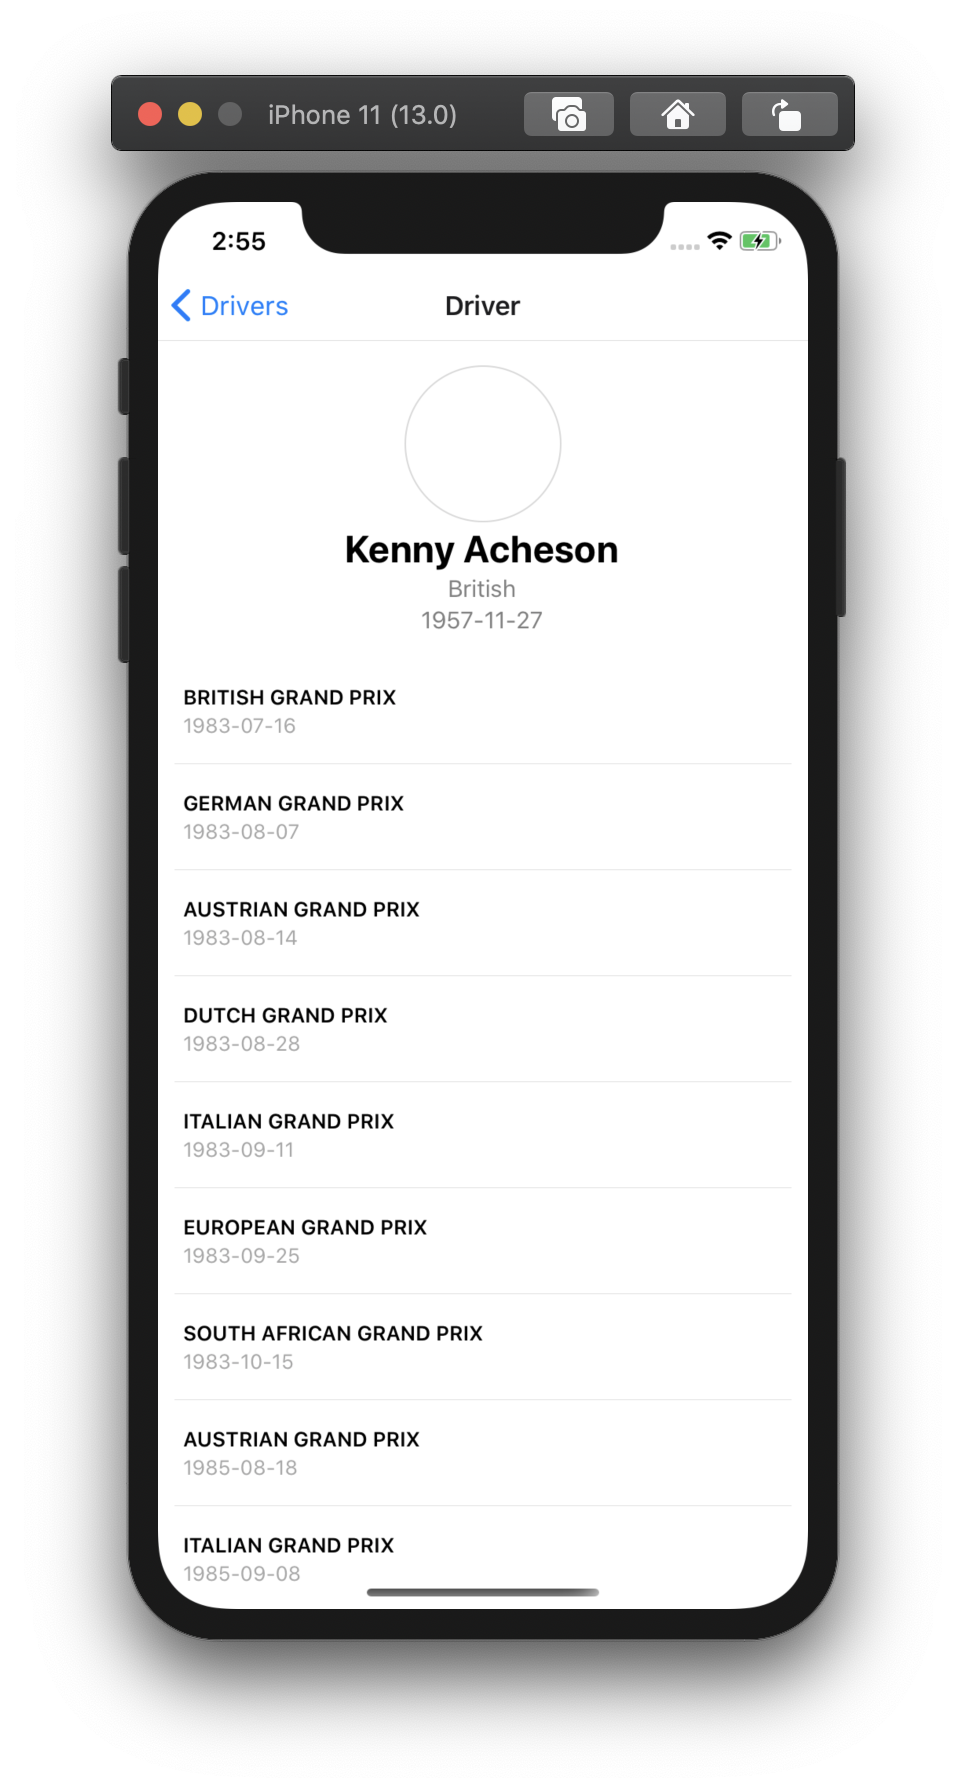
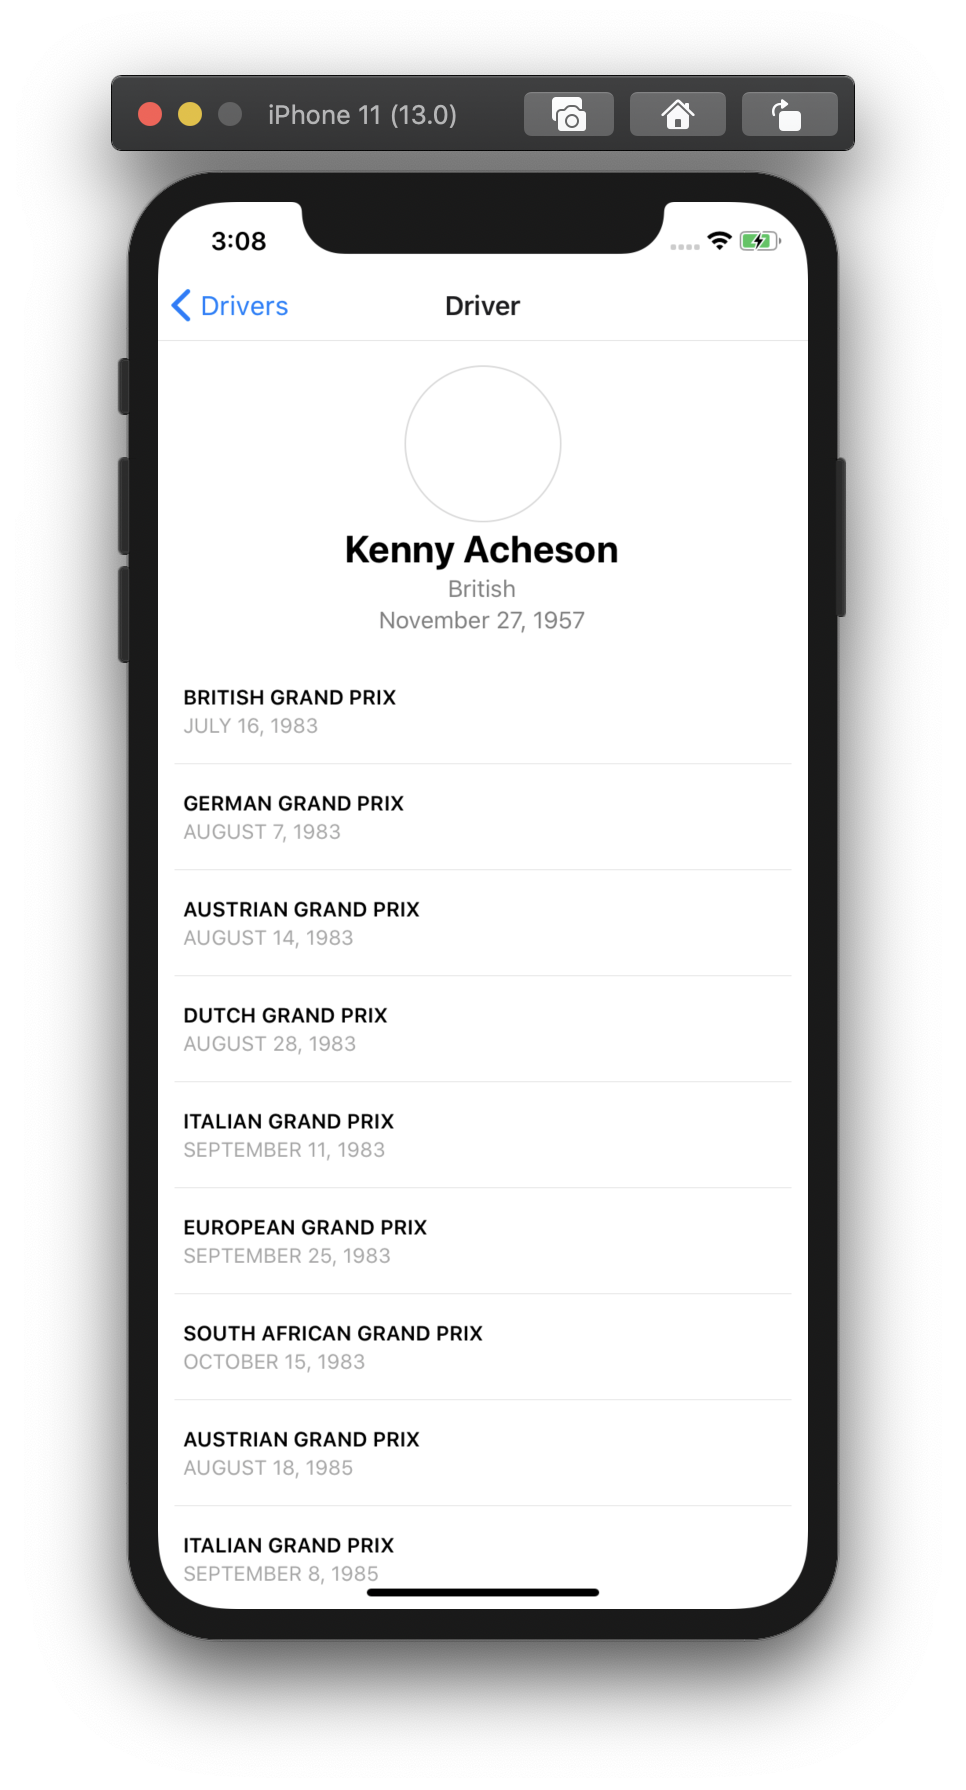
☝ Minor changes
Format dates

diff --git a/src/components/containers/Results/elements/CircuitInfo.tsx b/src/components/containers/Results/elements/CircuitInfo.tsx
@@ -1,5 +1,8 @@
 import React from 'react';
 import { Text, View, StyleSheet, TouchableOpacity } from 'react-native';
+
+import moment from 'moment';
+
 import { openURL } from '../../../utils/linking';
 
 const styles = StyleSheet.create({
@@ -33,9 +36,18 @@ type CircuitInfoProps = {
   raceUrl: string;
   location: string;
   country: string;
+  date: string;
 };
 
-const CircuitInfo: React.FC<CircuitInfoProps> = ({ location, raceName, country, raceUrl, circuitName, circuitUrl }) => {
+const CircuitInfo: React.FC<CircuitInfoProps> = ({
+  location,
+  raceName,
+  country,
+  raceUrl,
+  circuitName,
+  circuitUrl,
+  date,
+}) => {
   const onRaceLinkPress = React.useCallback(() => {
     openURL(raceUrl);
   }, [raceUrl]);
@@ -55,6 +67,7 @@ const CircuitInfo: React.FC<CircuitInfoProps> = ({ location, raceName, country, 
       </TouchableOpacity>
 
       <View>
+        <Text style={styles.subtitle}>{moment(date).format('LL')}</Text>
         <Text style={styles.subtitle}>{location}</Text>
         <Text style={styles.subtitle}>{country}</Text>
       </View>

diff --git a/src/components/containers/Driver/elements/RaceInfoItem.tsx b/src/components/containers/Driver/elements/RaceInfoItem.tsx
@@ -1,5 +1,7 @@
 import React from 'react';
 import { View, StyleSheet, TouchableOpacity, Text } from 'react-native';
+import moment from 'moment';
+
 import { Race } from '../../../../store/models/races';
 
 const styles = StyleSheet.create({
@@ -37,7 +39,7 @@ const RaceInfoItem: React.FC<RaceInfoItemProps> = ({ race, onPress }) => {
     <TouchableOpacity onPress={onPressHandle}>
       <View style={styles.container}>
         <Text style={styles.title}>{race.raceName}</Text>
-        <Text style={styles.date}>{race.date}</Text>
+        <Text style={styles.date}>{moment(race.date).format('LL')}</Text>
       </View>
     </TouchableOpacity>
   );

diff --git a/src/components/containers/Drivers/elements/DriverListItem.tsx b/src/components/containers/Drivers/elements/DriverListItem.tsx
@@ -1,6 +1,7 @@
 import React from 'react';
 import { Driver, getDriverName } from '../../../../store/models/drivers';
 import DetailedListItem from '../../../shared/DetailedListItem';
+import moment from 'moment';
 
 type DriverListItemProps = {
   driver: Driver;
@@ -16,7 +17,7 @@ const DriverListItem: React.FC<DriverListItemProps> = ({ driver, onPress }) => {
     <DetailedListItem
       title={getDriverName(driver)}
       subtitle={driver.nationality}
-      description={driver.dateOfBirth}
+      description={moment(driver.dateOfBirth).format('LL')}
       onPress={onPressHandle}
     />
   );

diff --git a/src/components/containers/Driver/elements/DriverInfo.tsx b/src/components/containers/Driver/elements/DriverInfo.tsx
@@ -1,6 +1,8 @@
 import React from 'react';
 import { StyleSheet, View, Text } from 'react-native';
 
+import moment from 'moment';
+
 const styles = StyleSheet.create({
   container: {
     alignItems: 'center',
@@ -39,7 +41,7 @@ const DriverInfo: React.FC<DriverInfoProps> = ({ name, nationality, dateOfBirth 
     <View style={styles.icon} />
     <Text style={styles.title}>{name}</Text>
     <Text style={styles.subtitle}>{nationality}</Text>
-    <Text style={styles.subtitle}>{dateOfBirth}</Text>
+    <Text style={styles.subtitle}>{moment(dateOfBirth).format('LL')}</Text>
   </View>
 );
 

diff --git a/src/components/containers/App.tsx b/src/components/containers/App.tsx
@@ -6,9 +6,14 @@ import { SafeAreaProvider } from 'react-native-safe-area-context';
 
 import { Provider } from 'react-redux';
 
+import * as moment from 'moment';
+import 'moment/locale/en-gb';
+
 import configureStore from '../../store/store';
 
 import { Navigation } from '../navigation';
+
+moment.locale('en');
 
 const App = () => {
   const store = configureStore();

diff --git a/src/components/containers/Results/ResultsView.tsx b/src/components/containers/Results/ResultsView.tsx
@@ -28,6 +28,7 @@ const ResultsView: React.FC<ResultsViewProps> = ({ race }) => {
             raceName={race.raceName}
             location={race.Circuit.Location.locality}
             country={race.Circuit.Location.country}
+            date={race.date}
           />
         )}
         data={race.Results}
